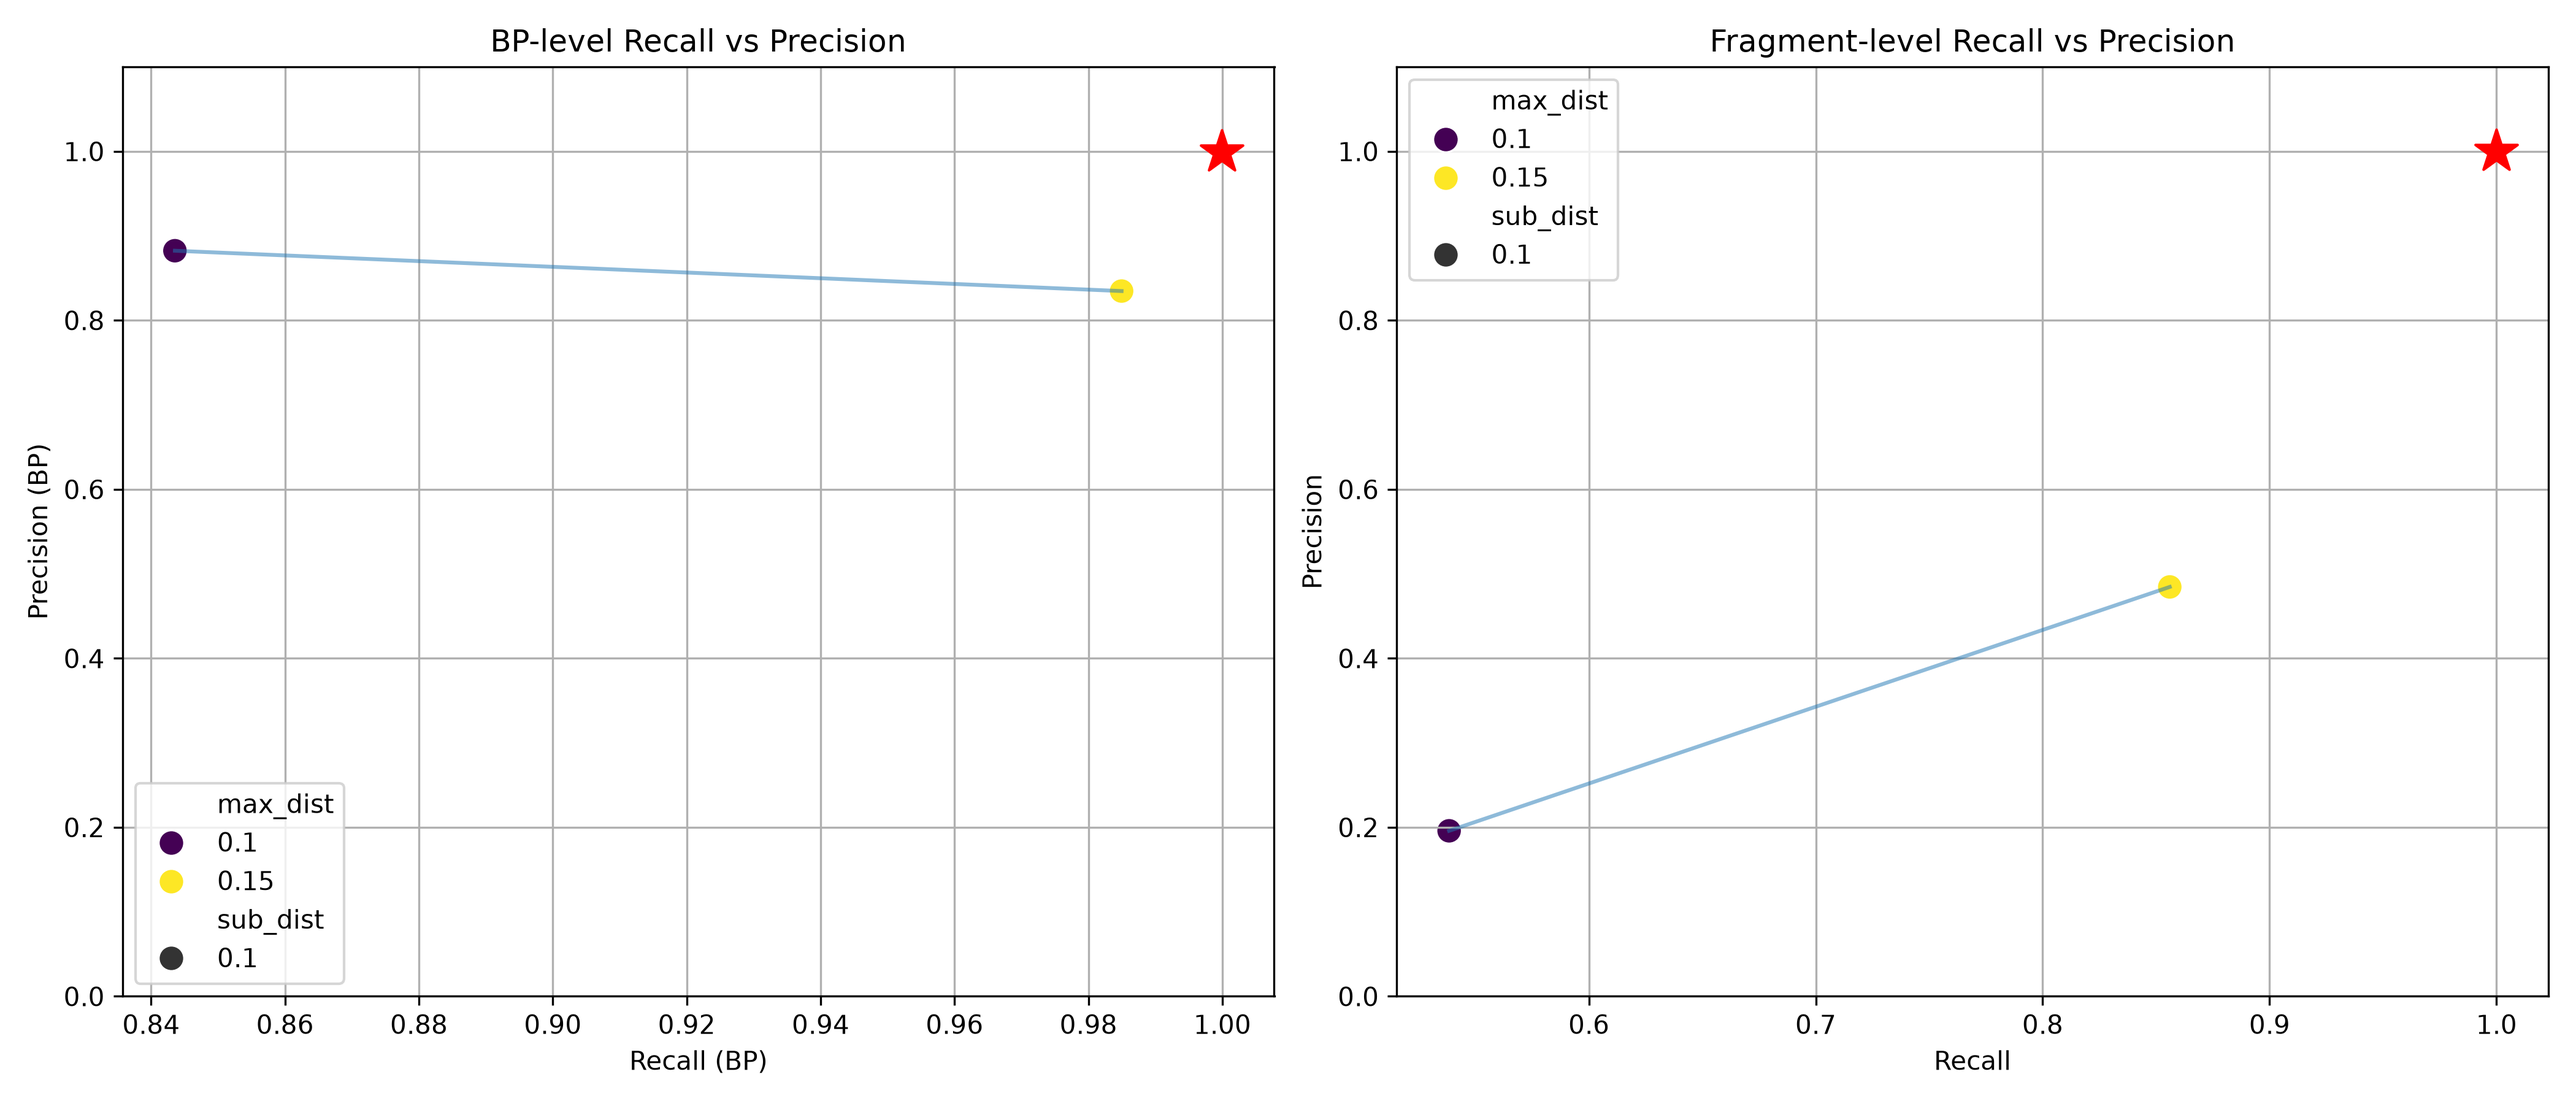
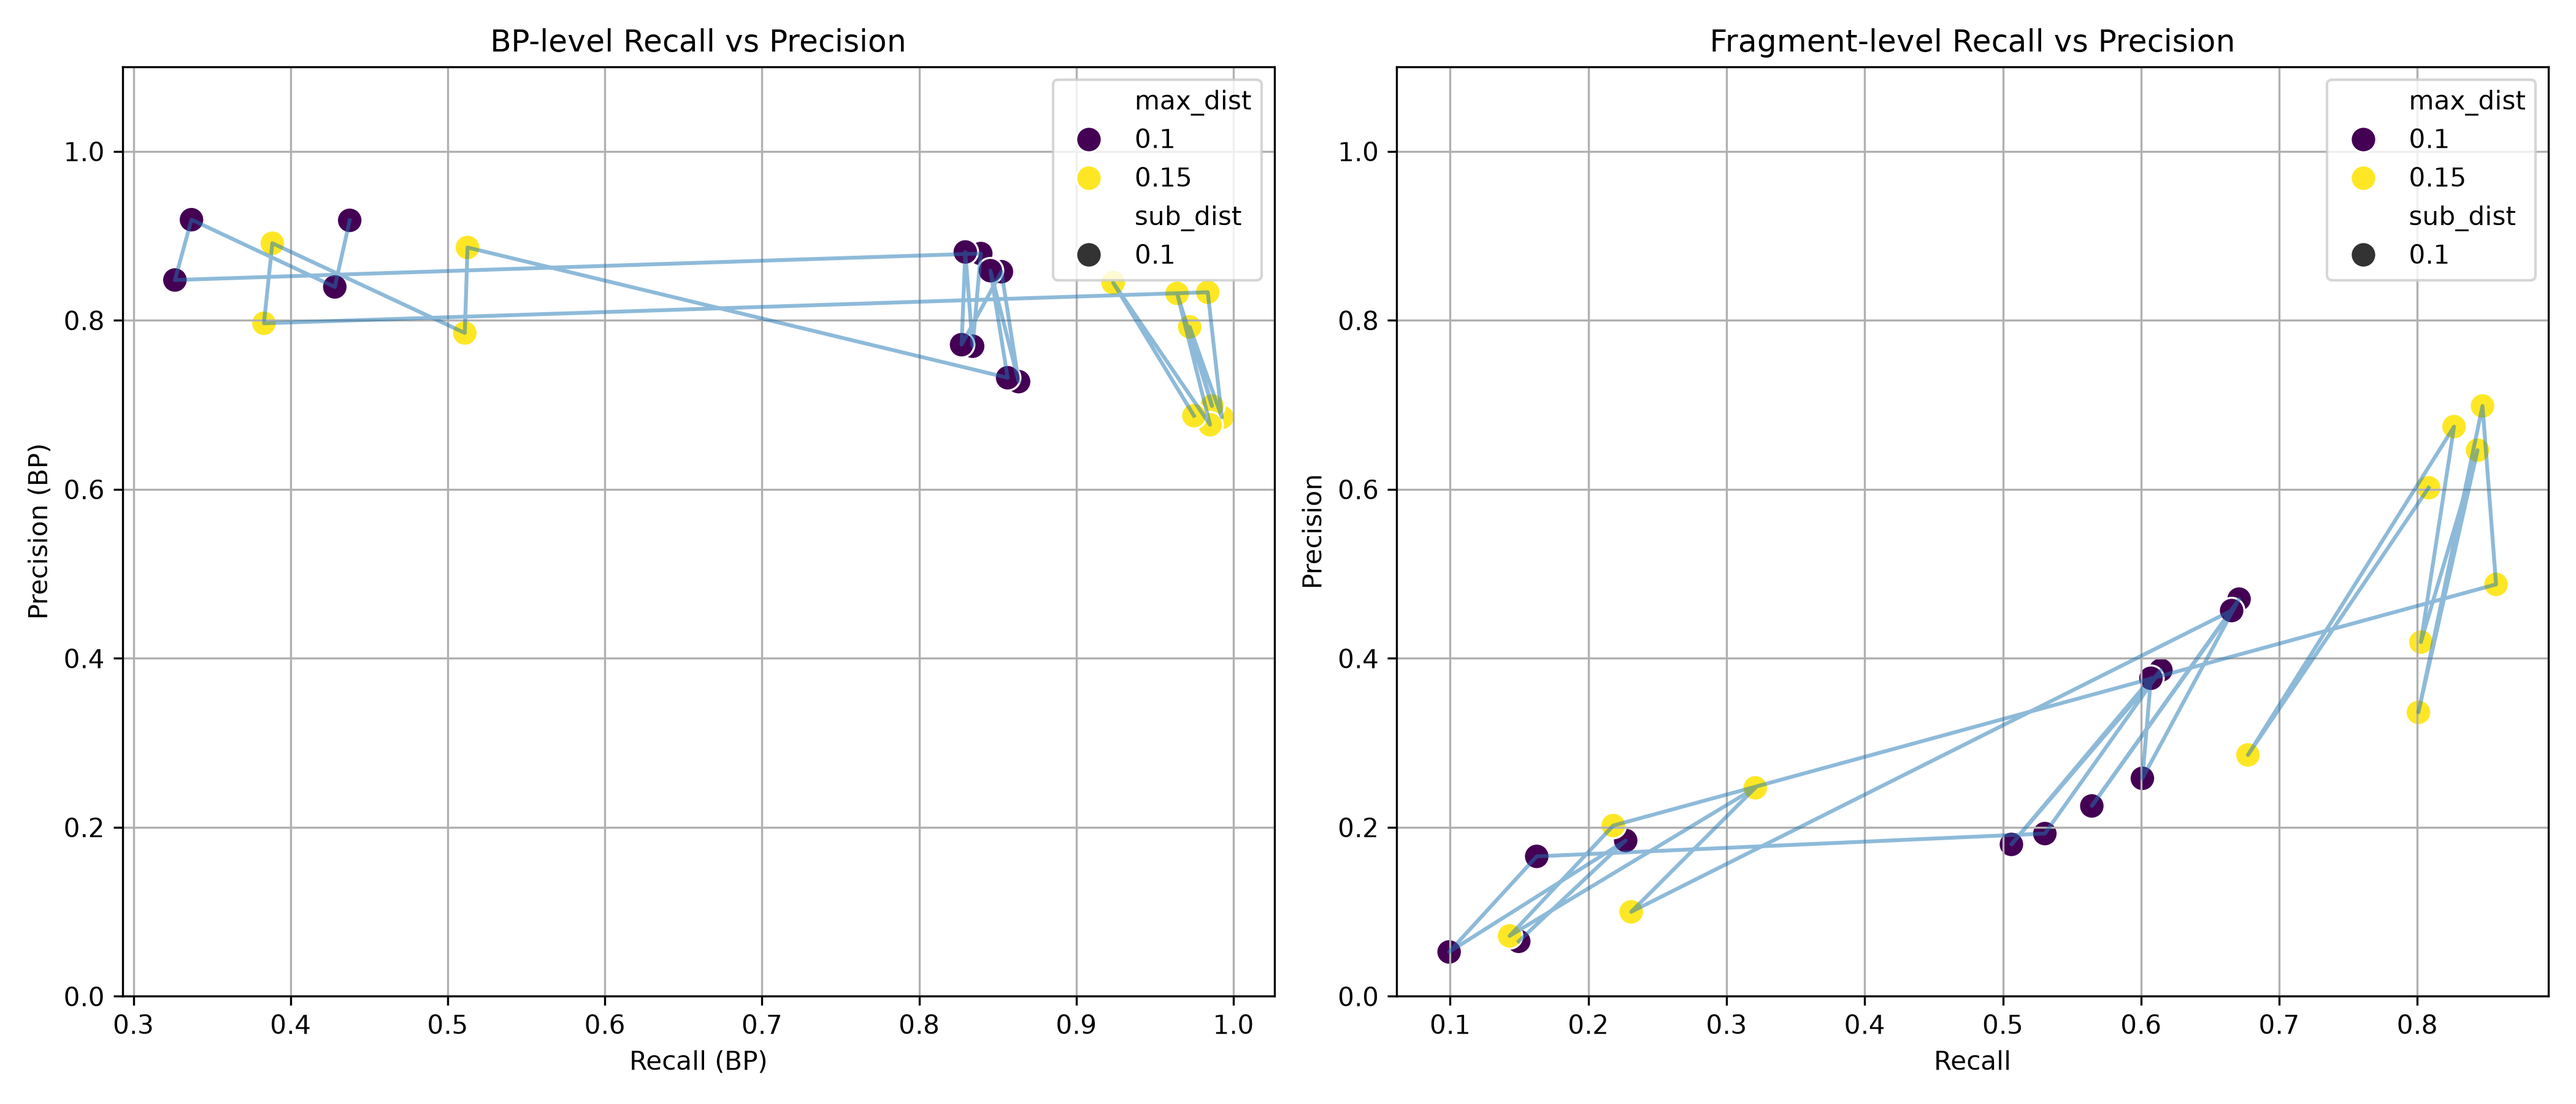
change s_value default

diff --git a/evaluate.py b/evaluate.py
@@ -7,6 +7,7 @@ import pandas as pd
 import matplotlib.pyplot as plt
 import seaborn as sns
 import time
+import sys
 
 def generate_simulated_genome(num_dups=5000, min_dup_len=1000, max_dup_len=10_000):
     chrom_sizes = {
@@ -307,11 +308,11 @@ def evaluate_frag(true_pairs, predicted_pairs, threshold=0.5):
     f1 = 2 * Sn * Pr / (Sn + Pr) if (Sn + Pr) > 0 else 0.0
     return Sn, Pr, f1
 
-def evaluate(true_pairs, max_dist, sub_dist, flank_ratio, fasta_path, chrom_offsets):
+def evaluate(true_pairs, max_dist, sub_dist, flank_ratio, kmer, scale, window, fasta_path, chrom_offsets):
     start_time = time.time()
     plantsds_out = f"sim_out_{os.getpid()}"
-    print(f"Running PlantSDS with -d {max_dist} -D {sub_dist} -f {flank_ratio}...")
-    subprocess.run(["./plantsds", "-d", str(max_dist), "-D", str(sub_dist), "-f", str(flank_ratio), "-p", "8", "-w", "1000", fasta_path, "-o", plantsds_out], 
+    print(f"Running PlantSDS with -d {max_dist} -D {sub_dist} -f {flank_ratio} -k {kmer} -s {scale} -w {window}...")
+    subprocess.run(["./plantsds", "-k", str(kmer), "-s", str(scale), "-w", str(window), "-d", str(max_dist), "-D", str(sub_dist), "-f", str(flank_ratio), "-p", "8", fasta_path, "-o", plantsds_out], 
                    check=True, stdout=subprocess.DEVNULL, stderr=subprocess.DEVNULL)
     exec_time = time.time() - start_time
     
@@ -380,9 +381,12 @@ if __name__ == "__main__":
     d_values = [0.10, 0.15]
     D_values = [0.1]
     f_values = [0.1]
+    k_values = [15, 21, 31]
+    s_values = [10, 20]
+    w_values = [1000, 2000]
     
-    print(f"{'sub_dist(-D)':>12} | {'max_dist(-d)':>12} | {'flank_ratio(-f)':>15} | {'BP Sn':>10} | {'BP Pr':>10} | {'BP F1':>10} | {'Frag Sn':>10} | {'Frag Pr':>10} | {'Frag F1':>10} | {'Time(s)':>8}")
-    print("-" * 135)
+    print(f"{'sub_dist(-D)':>12} | {'max_dist(-d)':>12} | {'flank_ratio(-f)':>15} | {'kmer(-k)':>8} | {'scale(-s)':>9} | {'window(-w)':>10} | {'BP Sn':>8} | {'BP Pr':>8} | {'BP F1':>8} | {'Frag Sn':>8} | {'Frag Pr':>8} | {'Frag F1':>8} | {'Time(s)':>8}")
+    print("-" * 165)
     
     results = []
     best_f1_bp = -1.0
@@ -391,24 +395,30 @@ if __name__ == "__main__":
     for sd in D_values:
         for md in d_values:
             for f_val in f_values:
-                Sn_bp, Pr_bp, f1_bp, Sn_frag, Pr_frag, f1_frag, exec_time, pred_pairs = evaluate(true_pairs, md, sd, f_val, fasta_path, chrom_offsets)
-                if f1_bp > best_f1_bp:
-                    best_f1_bp = f1_bp
-                    best_pred_pairs = pred_pairs
-                print(f"{sd:12.2f} | {md:12.2f} | {f_val:15.2f} | {Sn_bp:10.4f} | {Pr_bp:10.4f} | {f1_bp:10.4f} | {Sn_frag:10.4f} | {Pr_frag:10.4f} | {f1_frag:10.4f} | {exec_time:8.4f}")
-                results.append({
-                    'sub_dist': sd,
-                    'max_dist': md,
-                    'flank_ratio': f_val,
-                    'Recall_bp': Sn_bp,
-                    'Precision_bp': Pr_bp,
-                    'F1-Score_bp': f1_bp,
-                    'Recall_frag': Sn_frag,
-                    'Precision_frag': Pr_frag,
-                    'F1-Score_frag': f1_frag,
-                    'Time(s)': exec_time
-                })
-            print("-" * 135)
+                for k in k_values:
+                    for s in s_values:
+                        for w in w_values:
+                            Sn_bp, Pr_bp, f1_bp, Sn_frag, Pr_frag, f1_frag, exec_time, pred_pairs = evaluate(true_pairs, md, sd, f_val, k, s, w, fasta_path, chrom_offsets)
+                            if f1_bp > best_f1_bp:
+                                best_f1_bp = f1_bp
+                                best_pred_pairs = pred_pairs
+                            print(f"{sd:12.2f} | {md:12.2f} | {f_val:15.2f} | {k:8d} | {s:9d} | {w:10d} | {Sn_bp:8.4f} | {Pr_bp:8.4f} | {f1_bp:8.4f} | {Sn_frag:8.4f} | {Pr_frag:8.4f} | {f1_frag:8.4f} | {exec_time:8.4f}")
+                            results.append({
+                                'sub_dist': sd,
+                                'max_dist': md,
+                                'flank_ratio': f_val,
+                                'kmer': k,
+                                'scale': s,
+                                'window': w,
+                                'Recall_bp': Sn_bp,
+                                'Precision_bp': Pr_bp,
+                                'F1-Score_bp': f1_bp,
+                                'Recall_frag': Sn_frag,
+                                'Precision_frag': Pr_frag,
+                                'F1-Score_frag': f1_frag,
+                                'Time(s)': exec_time
+                            })
+                        print("-" * 165)
 
     save_bedpe(best_pred_pairs, "predict.bedpe")
     print("Saved predict.bedpe\n")
@@ -424,6 +434,9 @@ if __name__ == "__main__":
         print(f"sub_dist(-D)   : {best_row_bp['sub_dist']:.2f}")
         print(f"max_dist(-d)   : {best_row_bp['max_dist']:.2f}")
         print(f"flank_ratio(-f): {best_row_bp['flank_ratio']:.2f}")
+        print(f"kmer(-k)       : {int(best_row_bp['kmer'])}")
+        print(f"scale(-s)      : {int(best_row_bp['scale'])}")
+        print(f"window(-w)     : {int(best_row_bp['window'])}")
         print(f"BP Recall      : {best_row_bp['Recall_bp']:.4f}")
         print(f"BP Precision   : {best_row_bp['Precision_bp']:.4f}")
         print(f"BP F1-Score    : {best_row_bp['F1-Score_bp']:.4f}")
@@ -432,22 +445,26 @@ if __name__ == "__main__":
         print(f"Frag F1-Score  : {best_row_bp['F1-Score_frag']:.4f}")
         print(f"Time(s)        : {best_row_bp['Time(s)']:.4f}")
 
-    print("\nRunning SEDEF benchmark...")
     sedef_sn_bp, sedef_pr_bp, sedef_f1_bp = 0, 0, 0
     sedef_sn_frag, sedef_pr_frag, sedef_f1_frag = 0, 0, 0
-    try:
-        env = os.environ.copy()
-        sedef_dir = os.path.abspath("sedef")
-        env['PATH'] = f"{sedef_dir}:{env.get('PATH', '')}"
-        sedef_out_dir = f"sedef_out_{os.getpid()}"
-        t0 = time.time()
-        subprocess.run([os.path.join(sedef_dir, "sedef.sh"), "-o", sedef_out_dir, "-f", "-j", "8", fasta_path], stdout=subprocess.DEVNULL, stderr=subprocess.DEVNULL, env=env)
-        sedef_exec_time = time.time() - t0
-        if os.path.exists(f"{sedef_out_dir}/final.bed"):
-            sedef_sn_bp, sedef_pr_bp, sedef_f1_bp, sedef_sn_frag, sedef_pr_frag, sedef_f1_frag = evaluate_bedpe(true_pairs, f"{sedef_out_dir}/final.bed", chrom_offsets)
-        print(f"SEDEF -> BP Recall: {sedef_sn_bp:.4f}, Pr: {sedef_pr_bp:.4f}, F1: {sedef_f1_bp:.4f} | Frag Recall: {sedef_sn_frag:.4f}, Pr: {sedef_pr_frag:.4f}, F1: {sedef_f1_frag:.4f}, Time: {sedef_exec_time:.4f}s")
-    except Exception as e:
-        print(f"SEDEF -> Failed to run: {e}")
+
+    if "--no-sedef" not in sys.argv:
+        print("\nRunning SEDEF benchmark...")
+        try:
+            env = os.environ.copy()
+            sedef_dir = os.path.abspath("sedef")
+            env['PATH'] = f"{sedef_dir}:{env.get('PATH', '')}"
+            sedef_out_dir = f"sedef_out_{os.getpid()}"
+            t0 = time.time()
+            subprocess.run([os.path.join(sedef_dir, "sedef.sh"), "-o", sedef_out_dir, "-f", "-j", "8", fasta_path], stdout=subprocess.DEVNULL, stderr=subprocess.DEVNULL, env=env)
+            sedef_exec_time = time.time() - t0
+            if os.path.exists(f"{sedef_out_dir}/final.bed"):
+                sedef_sn_bp, sedef_pr_bp, sedef_f1_bp, sedef_sn_frag, sedef_pr_frag, sedef_f1_frag = evaluate_bedpe(true_pairs, f"{sedef_out_dir}/final.bed", chrom_offsets)
+            print(f"SEDEF -> BP Recall: {sedef_sn_bp:.4f}, Pr: {sedef_pr_bp:.4f}, F1: {sedef_f1_bp:.4f} | Frag Recall: {sedef_sn_frag:.4f}, Pr: {sedef_pr_frag:.4f}, F1: {sedef_f1_frag:.4f}, Time: {sedef_exec_time:.4f}s")
+        except Exception as e:
+            print(f"SEDEF -> Failed to run: {e}")
+    else:
+        print("\nSkipping SEDEF benchmark (--no-sedef provided).")
 
     # Plotting Sn-Pr Curve (BP and Fragment side-by-side)
     fig, (ax1, ax2) = plt.subplots(1, 2, figsize=(14, 6))

diff --git a/plantsds.c b/plantsds.c
@@ -51,7 +51,7 @@ int main(int argc, char **argv) {
   // ==============================================================
 
   uint32_t def_kmer_size = 21;
-  uint64_t def_scale = 10;
+  uint64_t def_scale = 20;
   uint64_t def_hash_seed = 42;
   size_t window_size = 1000;
   size_t step_size = 0; /* 0 = auto (window/2) */
